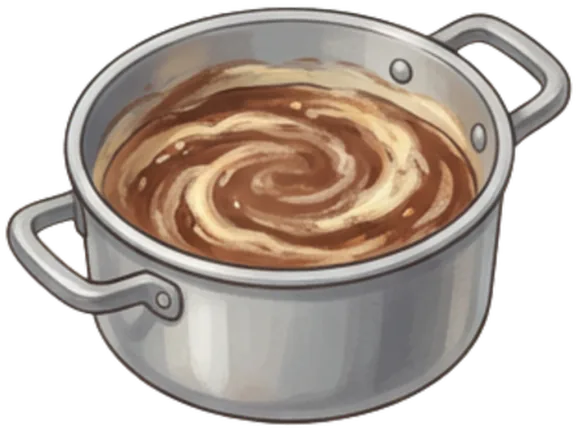
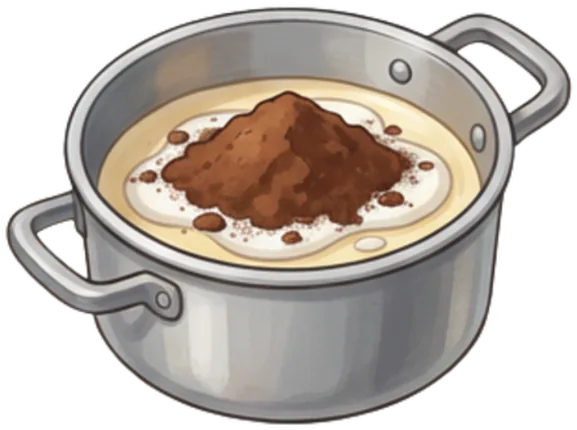
Doce Orçamento: artes novas (título, créditos, ícones, estados da panela) e massa da panela com o 1º ingrediente subindo e o 2º e 3º em elipses dentro da anterior (240 caminhos)

diff --git a/web/public/jogos/doce-orcamento/sw.js b/web/public/jogos/doce-orcamento/sw.js
@@ -2,8 +2,8 @@
 // visita e depois abre sem rede (Chromebook offline). A lista de arquivos e a
 // versão são preenchidas pelo build (tools/web.py); versão nova = cache novo,
 // e o antigo é apagado. Caminhos relativos ao escopo: funciona em subpasta.
-const VERSAO = "d1b82e94a883058e";
-const ARQUIVOS = ["./", "audio.js", "audio/acerto.wav", "audio/clique.wav", "audio/conquista.wav", "audio/erro.wav", "audio/moeda.wav", "audio/pagina.wav", "caderno.js", "camadas.js", "cozinha.js", "data/assets.json", "data/conteudo.json", "dialogo.js", "dom.js", "estilo.css", "expressao.js", "finais.js", "fonts/Fredoka-Variable.ttf", "fonts/Nunito-Variable.ttf", "fonts/OFL-Fredoka.txt", "fonts/OFL-Nunito.txt", "fonts/ORIGEM.txt", "hud.js", "img/cozinha/bolha.webp", "img/cozinha/colher_0.webp", "img/cozinha/colher_1.webp", "img/cozinha/colher_2.webp", "img/cozinha/colher_3.webp", "img/cozinha/colher_4.webp", "img/cozinha/colher_5.webp", "img/cozinha/colher_6.webp", "img/cozinha/mistura_disco.webp", "img/cozinha/mistura_mancha_1.webp", "img/cozinha/mistura_mancha_2.webp", "img/cozinha/mistura_massa.webp", "img/cozinha/mistura_nivel_1.webp", "img/cozinha/mistura_nivel_2.webp", "img/cozinha/mistura_nivel_3.webp", "img/cozinha/mistura_oval.webp", "img/cozinha/mistura_sombra.webp", "img/cozinha/panela_0.webp", "img/cozinha/panela_1.webp", "img/cozinha/panela_2.webp", "img/cozinha/panela_3.webp", "img/cozinha/panela_4.webp", "img/cozinha/panela_5.webp", "img/cozinha/panela_6.webp", "img/fundos/cozinha_cassia.webp", "img/fundos/cozinha_minigame.webp", "img/fundos/creditos.webp", "img/fundos/feira_fim_do_dia.webp", "img/fundos/feira_movimentada.webp", "img/fundos/listrado.webp", "img/fundos/onibus_excursao.webp", "img/fundos/patio_barraca.webp", "img/fundos/patio_revelacao.webp", "img/fundos/sala_aula_manha.webp", "img/fundos/supermercado.webp", "img/fundos/titulo.webp", "img/icones/icone_192.png", "img/icones/icone_512.png", "img/itens/achocolatado_comum.webp", "img/itens/achocolatado_premium.webp", "img/itens/brigadeiro.webp", "img/itens/brigadeiro_amendoim.webp", "img/itens/brigadeiro_bolinha.webp", "img/itens/brigadeiro_colorido.webp", "img/itens/brigadeiro_tradicional.webp", "img/itens/creme_de_leite.webp", "img/itens/forminhas.webp", "img/itens/granulado.webp", "img/itens/granulado_amendoim.webp", "img/itens/granulado_bolinha.webp", "img/itens/granulado_colorido.webp", "img/itens/leite_condensado.webp", "img/itens/leite_condensado_economico.webp", "img/personagens/ana_alegria.webp", "img/personagens/ana_choro.webp", "img/personagens/ana_euforia.webp", "img/personagens/ana_nervosismo.webp", "img/personagens/ana_raiva.webp", "img/personagens/ana_surpresa.webp", "img/personagens/cassia_alegria.webp", "img/personagens/cassia_raiva.webp", "img/personagens/cassia_tristeza.webp", "img/personagens/denis_alegria.webp", "img/personagens/denis_raiva.webp", "img/personagens/denis_tristeza.webp", "img/personagens/lucas_alegria.webp", "img/personagens/lucas_raiva.webp", "img/personagens/lucas_tristeza.webp", "img/personagens/tabata_alegria.webp", "img/personagens/tabata_raiva.webp", "img/personagens/tabata_tristeza.webp", "img/ui/menu_carregar_hover.webp", "img/ui/menu_carregar_idle.webp", "img/ui/menu_carregar_insensitive.webp", "img/ui/menu_continuar_hover.webp", "img/ui/menu_continuar_idle.webp", "img/ui/menu_continuar_insensitive.webp", "img/ui/menu_novo_jogo_hover.webp", "img/ui/menu_novo_jogo_idle.webp", "img/ui/menu_novo_jogo_insensitive.webp", "img/ui/menu_opcoes_hover.webp", "img/ui/menu_opcoes_idle.webp", "img/ui/menu_opcoes_insensitive.webp", "img/ui/menu_sair_hover.webp", "img/ui/menu_sair_idle.webp", "img/ui/menu_sair_insensitive.webp", "img/ui/menu_sobre_hover.webp", "img/ui/menu_sobre_idle.webp", "img/ui/menu_sobre_insensitive.webp", "img/ui/slider_hover_alca.webp", "img/ui/slider_idle_alca.webp", "index.html", "jogo.js", "jogo.pack", "licencas/Fulli.txt", "licencas/LEIA-ME.txt", "licencas/puppetbomb/readme.txt", "main.js", "manifest.webmanifest", "menu.js", "motor.js", "paineis.js", "palco.js", "roteiro.js", "saves.js"];
+const VERSAO = "fbcd09b125f39f35";
+const ARQUIVOS = ["./", "audio.js", "audio/acerto.wav", "audio/clique.wav", "audio/conquista.wav", "audio/erro.wav", "audio/moeda.wav", "audio/pagina.wav", "caderno.js", "camadas.js", "cozinha.js", "data/assets.json", "data/conteudo.json", "dialogo.js", "dom.js", "estilo.css", "expressao.js", "finais.js", "fonts/Fredoka-Variable.ttf", "fonts/Nunito-Variable.ttf", "fonts/OFL-Fredoka.txt", "fonts/OFL-Nunito.txt", "fonts/ORIGEM.txt", "hud.js", "img/cozinha/bolha.webp", "img/cozinha/colher_0.webp", "img/cozinha/colher_1.webp", "img/cozinha/colher_2.webp", "img/cozinha/colher_3.webp", "img/cozinha/colher_4.webp", "img/cozinha/colher_5.webp", "img/cozinha/colher_6.webp", "img/cozinha/mistura_disco.webp", "img/cozinha/mistura_elipse_1.webp", "img/cozinha/mistura_elipse_2.webp", "img/cozinha/mistura_mancha_1.webp", "img/cozinha/mistura_mancha_2.webp", "img/cozinha/mistura_massa.webp", "img/cozinha/mistura_nivel_1.webp", "img/cozinha/mistura_nivel_2.webp", "img/cozinha/mistura_nivel_3.webp", "img/cozinha/mistura_oval.webp", "img/cozinha/mistura_sombra.webp", "img/cozinha/panela_0.webp", "img/cozinha/panela_1.webp", "img/cozinha/panela_2.webp", "img/cozinha/panela_3.webp", "img/cozinha/panela_4.webp", "img/cozinha/panela_5.webp", "img/cozinha/panela_6.webp", "img/fundos/cozinha_cassia.webp", "img/fundos/cozinha_minigame.webp", "img/fundos/creditos.webp", "img/fundos/feira_fim_do_dia.webp", "img/fundos/feira_movimentada.webp", "img/fundos/listrado.webp", "img/fundos/onibus_excursao.webp", "img/fundos/patio_barraca.webp", "img/fundos/patio_revelacao.webp", "img/fundos/sala_aula_manha.webp", "img/fundos/supermercado.webp", "img/fundos/titulo.webp", "img/icones/icone_192.png", "img/icones/icone_512.png", "img/itens/achocolatado_comum.webp", "img/itens/achocolatado_premium.webp", "img/itens/brigadeiro.webp", "img/itens/brigadeiro_amendoim.webp", "img/itens/brigadeiro_bolinha.webp", "img/itens/brigadeiro_colorido.webp", "img/itens/brigadeiro_tradicional.webp", "img/itens/creme_de_leite.webp", "img/itens/forminhas.webp", "img/itens/granulado.webp", "img/itens/granulado_amendoim.webp", "img/itens/granulado_bolinha.webp", "img/itens/granulado_colorido.webp", "img/itens/leite_condensado.webp", "img/itens/leite_condensado_economico.webp", "img/personagens/ana_alegria.webp", "img/personagens/ana_choro.webp", "img/personagens/ana_euforia.webp", "img/personagens/ana_nervosismo.webp", "img/personagens/ana_raiva.webp", "img/personagens/ana_surpresa.webp", "img/personagens/cassia_alegria.webp", "img/personagens/cassia_raiva.webp", "img/personagens/cassia_tristeza.webp", "img/personagens/denis_alegria.webp", "img/personagens/denis_raiva.webp", "img/personagens/denis_tristeza.webp", "img/personagens/lucas_alegria.webp", "img/personagens/lucas_raiva.webp", "img/personagens/lucas_tristeza.webp", "img/personagens/tabata_alegria.webp", "img/personagens/tabata_raiva.webp", "img/personagens/tabata_tristeza.webp", "img/ui/menu_carregar_hover.webp", "img/ui/menu_carregar_idle.webp", "img/ui/menu_carregar_insensitive.webp", "img/ui/menu_continuar_hover.webp", "img/ui/menu_continuar_idle.webp", "img/ui/menu_continuar_insensitive.webp", "img/ui/menu_novo_jogo_hover.webp", "img/ui/menu_novo_jogo_idle.webp", "img/ui/menu_novo_jogo_insensitive.webp", "img/ui/menu_opcoes_hover.webp", "img/ui/menu_opcoes_idle.webp", "img/ui/menu_opcoes_insensitive.webp", "img/ui/menu_sair_hover.webp", "img/ui/menu_sair_idle.webp", "img/ui/menu_sair_insensitive.webp", "img/ui/menu_sobre_hover.webp", "img/ui/menu_sobre_idle.webp", "img/ui/menu_sobre_insensitive.webp", "img/ui/slider_hover_alca.webp", "img/ui/slider_idle_alca.webp", "index.html", "jogo.js", "jogo.pack", "licencas/Fulli.txt", "licencas/LEIA-ME.txt", "licencas/puppetbomb/readme.txt", "main.js", "manifest.webmanifest", "menu.js", "motor.js", "paineis.js", "palco.js", "roteiro.js", "saves.js"];
 const CACHE = "doce-orcamento-" + VERSAO;
 
 self.addEventListener("install", (evento) => {

diff --git a/web/public/jogos/doce-orcamento/cozinha.js b/web/public/jogos/doce-orcamento/cozinha.js
@@ -69,12 +69,13 @@ function tingida(nome, cor, largura = 577, altura = 430) {
   return canvas;
 }
 
-/** Faixa de massa do k-ésimo ingrediente (0, 1, 2): img/cozinha/mistura_nivel_k (577x430: boca da
- * panela x elipse mais abaixo, que sobe a cada ingrediente; cada faixa é o nível menos o anterior). */
+/** Massa do k-ésimo ingrediente (0, 1, 2): o 1º é a camada que sobe (img/cozinha/mistura_nivel_1:
+ * boca da panela x elipse mais abaixo); o 2º e o 3º são elipses dentro da anterior
+ * (mistura_elipse_k), todas em 577x430. */
 function poca(cor, k = 0) {
-  const faixa = tingida(`mistura_nivel_${Math.min(k, 2) + 1}`, cor);
-  faixa.className = "forma-nivel";
-  return faixa;
+  const forma = tingida(k === 0 ? "mistura_nivel_1" : `mistura_elipse_${Math.min(k, 2)}`, cor);
+  forma.className = "forma-nivel";
+  return forma;
 }
 
 /** Panela 577x430 (com espaço para a massa), centrada em (960, y) e um pouco menor. 'sobre'
@@ -485,17 +486,18 @@ function rodarEtapa(deps, opcoes) {
   });
 }
 
-/** Visual da mistura (doce_mistura_giro), num <canvas> só: as faixas de massa como ficaram na etapa
- * anterior, as manchas dos outros ingredientes girando por cima e, por fim, a cor final do
+/** Visual da mistura (doce_mistura_giro), num <canvas> só: a massa na cor do 1º ingrediente com as
+ * elipses dos outros (como na etapa anterior), as manchas dos outros ingredientes girando por cima e, por fim, a cor final do
  * brigadeiro com o progresso; tudo recortado na massa inteira (mistura_massa). */
 function visualMistura(cores, corFinal) {
   const { caixa, sobre } = panelaComMassa(CENTRO.y);
   const massa = el("canvas", { class: "forma-nivel", width: 577, height: 430 });
   const c = massa.getContext("2d");
-  const faixas = cores.map((cor, k) => tingida(`mistura_nivel_${Math.min(k, 2) + 1}`, cor));
+  const camadas = cores.map((cor, k) => poca(cor, k));
   const manchas = cores.slice(1).map((cor, j) => tingida(`mistura_mancha_${Math.min(j + 1, 2)}`, cor, 420, 420));
   const recorte = mascara("mistura_massa");
   const final = corCss(rgb(corFinal));
+  const base = corCss(cores[0]);
   sobre(massa);
   const texto = el("p");
   const consistencia = barra("Consistência da massa");
@@ -503,7 +505,9 @@ function visualMistura(cores, corFinal) {
   const pintar = (m) => {
     const p = m.progresso / 100;
     c.clearRect(0, 0, 577, 430);
-    faixas.forEach((faixa) => c.drawImage(faixa, 0, 0));
+    c.fillStyle = base;   // massa inteira na cor do 1º ingrediente; as elipses dos outros por cima
+    c.fillRect(0, 0, 577, 430);
+    camadas.slice(1).forEach((forma) => c.drawImage(forma, 0, 0));
     manchas.forEach((mancha, j) => {
       c.save();
       c.globalAlpha = 1 - 0.9 * p;
